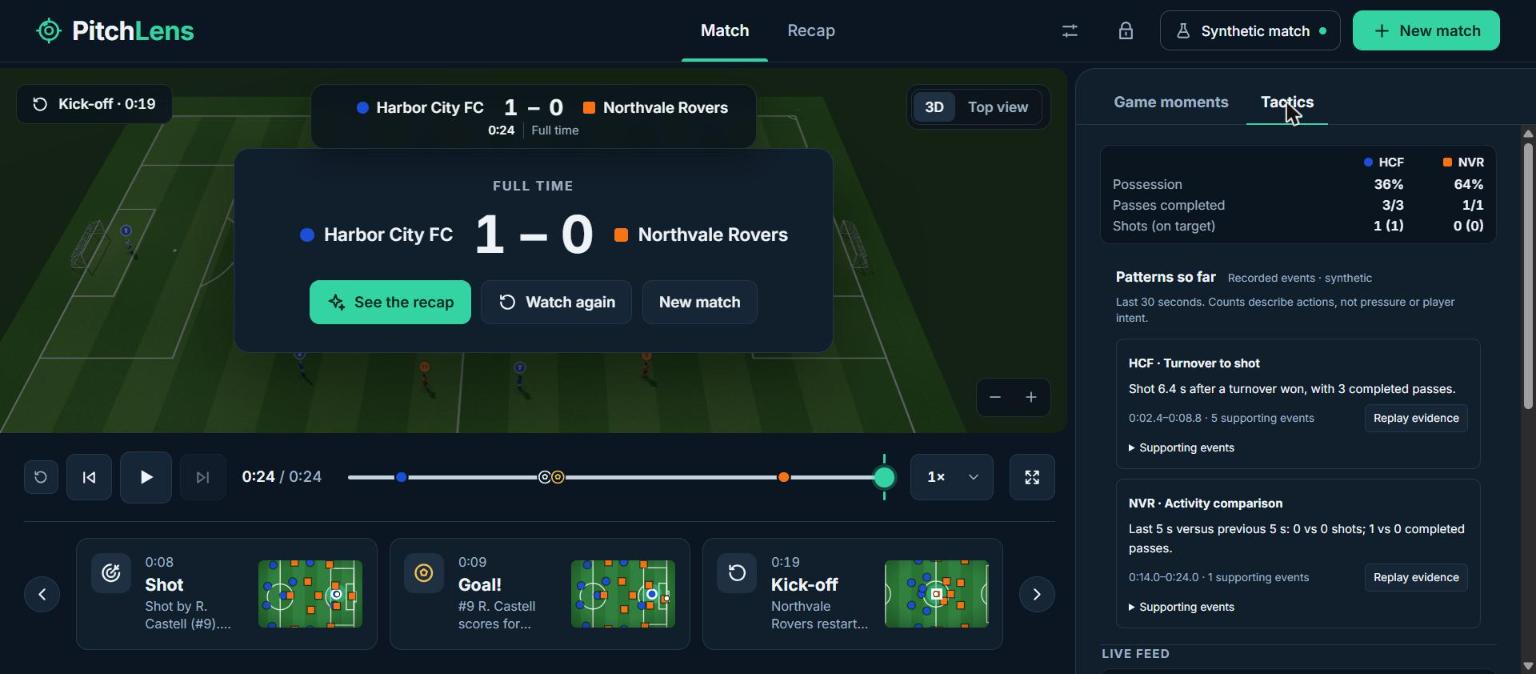
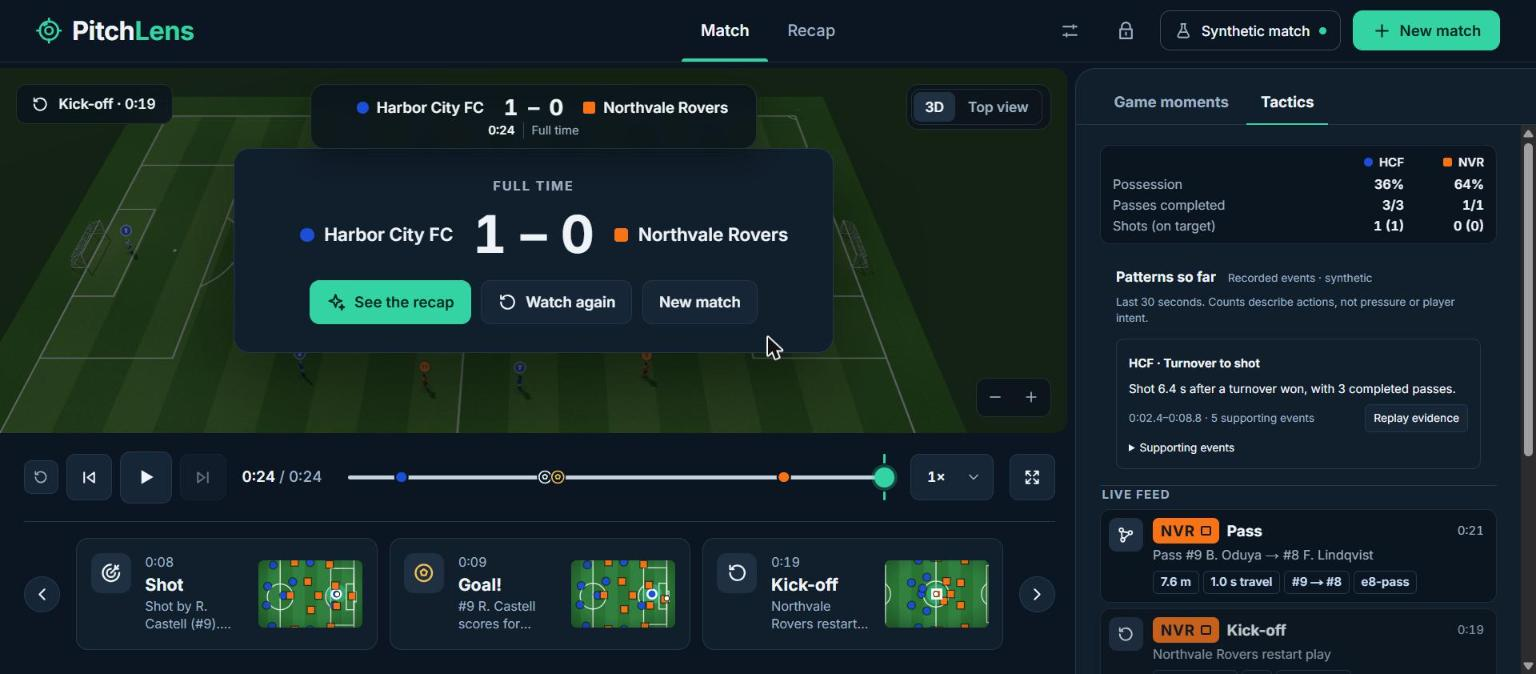
Hide activity comparison cards from the Tactics tab
Window-to-window count changes ("0 vs 0 shots") meant little to a viewer
and crowded the tab. The Tactics tab now shows turnover-to-shot and
repeated flank cards only. Activity comparisons are still measured and
supplied to the model, where they support stated facts.

The two README screenshots that showed an activity comparison card are
retaken.

diff --git a/src/components/MatchPatterns.tsx b/src/components/MatchPatterns.tsx
@@ -14,6 +14,9 @@ export function MatchPatterns({ fixture, timeMs, onReplay, favoriteTeamId, favor
 }) {
   const measurements = useMemo(() => measureEvents(eventsAt(fixture, timeMs), fixture.teams, timeMs), [fixture, timeMs]);
   const patterns = measurements.patterns.filter((p) => {
+    // Activity comparisons ("0 vs 0 shots") mean little to a viewer. They stay
+    // in the model's measurements, where they support stated facts, but get no card.
+    if (p.kind === "activity-change") return false;
     if (favoriteTeamId && p.teamId !== favoriteTeamId) return false;
     return !favoritePlayerId || p.eventIds.some((id) => {
       const e = fixture.events.find((event) => event.id === id);
@@ -25,7 +28,7 @@ export function MatchPatterns({ fixture, timeMs, onReplay, favoriteTeamId, favor
     <p className={styles.note}>Last 30 seconds. Counts describe actions, not pressure or player intent.</p>
     {patterns.length === 0 ? <p className={styles.empty}>No qualifying pattern in the available events{favoriteTeamId || favoritePlayerId ? " for this focus" : ""}.</p> :
       <ul className={styles.list}>{patterns.map((p) => <li key={p.id}>
-        <strong>{fixture.teams.find((t) => t.id === p.teamId)?.shortName} · {p.kind === "turnover-to-shot" ? "Turnover to shot" : p.kind === "repeated-flank" ? "Repeated flank actions" : "Activity comparison"}</strong>
+        <strong>{fixture.teams.find((t) => t.id === p.teamId)?.shortName} · {p.kind === "turnover-to-shot" ? "Turnover to shot" : "Repeated flank actions"}</strong>
         <p>{p.summary}</p>
         <div className={styles.evidence}>
           <span>{formatClock(p.fromMs)}–{formatClock(p.toMs)} · {p.eventIds.length} supporting events</span>

diff --git a/tests/match-patterns.test.tsx b/tests/match-patterns.test.tsx
@@ -4,6 +4,8 @@ import { createRoot, type Root } from "react-dom/client";
 import { afterEach, beforeEach, describe, expect, it, vi } from "vitest";
 import { MatchPatterns } from "@/components/MatchPatterns";
 import { sampleFixture } from "@/match/fixture";
+import { eventsAt } from "@/playback/derive";
+import { measureEvents } from "@/playback/patterns";
 
 Object.assign(globalThis, { IS_REACT_ACT_ENVIRONMENT: true });
 let container: HTMLDivElement;
@@ -31,6 +33,16 @@ describe("measured pattern cards", () => {
     expect(container.querySelector("details ol")?.children.length).toBe(5);
     await render(shot.t - 1);
     expect(container.textContent).not.toContain("Turnover to shot");
+  });
+
+  it("shows no card for an activity comparison, which stays in the measurements", async () => {
+    const end = sampleFixture.durationMs;
+    const measured = measureEvents(eventsAt(sampleFixture, end), sampleFixture.teams, end).patterns;
+    expect(measured.some((p) => p.kind === "activity-change")).toBe(true);
+    await render(end);
+    expect(container.textContent).not.toContain("Activity comparison");
+    expect(container.querySelector('button[aria-label^="Replay activity-change"]')).toBeNull();
+    expect(container.textContent).toContain("Turnover to shot");
   });
 
   it("filters cards by team and participant without changing measurements", async () => {

diff --git a/docs/match-patterns.md b/docs/match-patterns.md
@@ -5,8 +5,8 @@ PitchLens derives patterns deterministically from synthetic recorded events. Thi
 - **Turnover to shot:** a turnover with outcome `won`, followed only by that team's completed passes (and optional formation changes), then that team's shot. Any other event interrupts the chain. Duration is exactly shot strike time minus turnover resolution time, in milliseconds. No goal result or causal claim is inferred. The two latest sequences are retained.
 - **Repeated flank actions:** at least three completed passes or shots whose start coordinates lie in the team's attacking half and the same outer third across the pitch, within the last 30 seconds (or available opening window). The attacking half includes x = 52.5 m. Top means y < 68/3 m; bottom means y > 136/3 m; these are fixed screen coordinates, not a player's left/right. Only start locations count; this does not establish possession dominance or successful attacks.
 - **Shot locations:** for every retained shot at or before the selected time with a recorded start and a known team, `shotLocations` gives the event ID; `distanceToGoalM`, the straight-line distance from the start to the centre of the goal that team attacks (x = 105 m for `increasing-x`, x = 0 for `decreasing-x`; y = 34 m), rounded to 0.1 m; `insidePenaltyArea`, whether the start lies within 16.5 m of that goal line and 20.16 m either side of centre, boundaries inclusive; and `channel`, `top-outer-third` (y < 68/3 m), `bottom-outer-third` (y > 136/3 m) or `central` (boundaries included). These describe only where the shot started. They never use the shot's outcome or end coordinates and are not a chance-quality or expected-goals metric. Because each value depends on one event, shot locations are also supplied for `retained-events-only` windows.
-- **Activity comparison:** shots and completed passes in two equal, adjacent five-second windows, `(selected-10000, selected-5000]` and `(selected-5000, selected]`. A card appears only when a count changes and ten seconds of complete event coverage are available. This measures activity, not pressure or momentum.
+- **Activity comparison:** shots and completed passes in two equal, adjacent five-second windows, `(selected-10000, selected-5000]` and `(selected-5000, selected]`. A card appears only when a count changes and ten seconds of complete event coverage are available. This measures activity, not pressure or momentum. It is supplied to the model only; the Tactics panel shows no card for it, because a window-to-window count change means little to a viewer on its own.
 
-The Tactics panel uses complete cutoff-bound events for the last 30 seconds. Cards show the calculation, time range and supporting events. Replay seeks to the beginning of the evidence; individual events can also be replayed. Team/player focus filters visible cards after derivation, preserving their underlying evidence.
+The Tactics panel shows turnover-to-shot and repeated flank cards, using complete cutoff-bound events for the last 30 seconds. Cards show the calculation, time range and supporting events. Replay seeks to the beginning of the evidence; individual events can also be replayed. Team/player focus filters visible cards after derivation, preserving their underlying evidence.
 
 The model's `measurements` field is computed inside the context payload builder from its **final retained events**, including after byte-budget trimming. Counts are scoped to the context window, with the contributing event IDs. Filtering or truncation changes coverage to `retained-events-only` and suppresses patterns: missing events could otherwise hide an interruption or make window comparisons incorrect. These partial counts must never be presented as match totals or proof of no activity. Tools can supply additional events, but the base measurements continue to describe the base retained window. Every supporting ID remains present in the model evidence and uses existing event citation validation. Citation existence alone does not validate a derived claim; model grounding and verifier checks still apply.

diff --git a/README.md b/README.md
@@ -63,11 +63,11 @@ evidence.
 
 ### Measure what happened
 
-![Top view with live numbers and measured patterns: turnover-to-shot sequences and activity comparisons](docs/screenshots/readme/top-view-tactics.jpg)
+![Top view with live numbers and measured patterns](docs/screenshots/readme/top-view-tactics.jpg)
 
 The **Tactics** tab shows possession, completed passes and shots so far, and
-**Patterns so far**: turnover-to-shot sequences, repeated flank actions and
-activity comparisons between adjacent time windows. Each pattern lists its
+**Patterns so far**: turnover-to-shot sequences and repeated flank actions.
+Each pattern lists its
 supporting events and can be replayed. Patterns describe recorded actions only,
 not pressure, intent or chance quality. See the
 [pattern definitions](docs/match-patterns.md).
